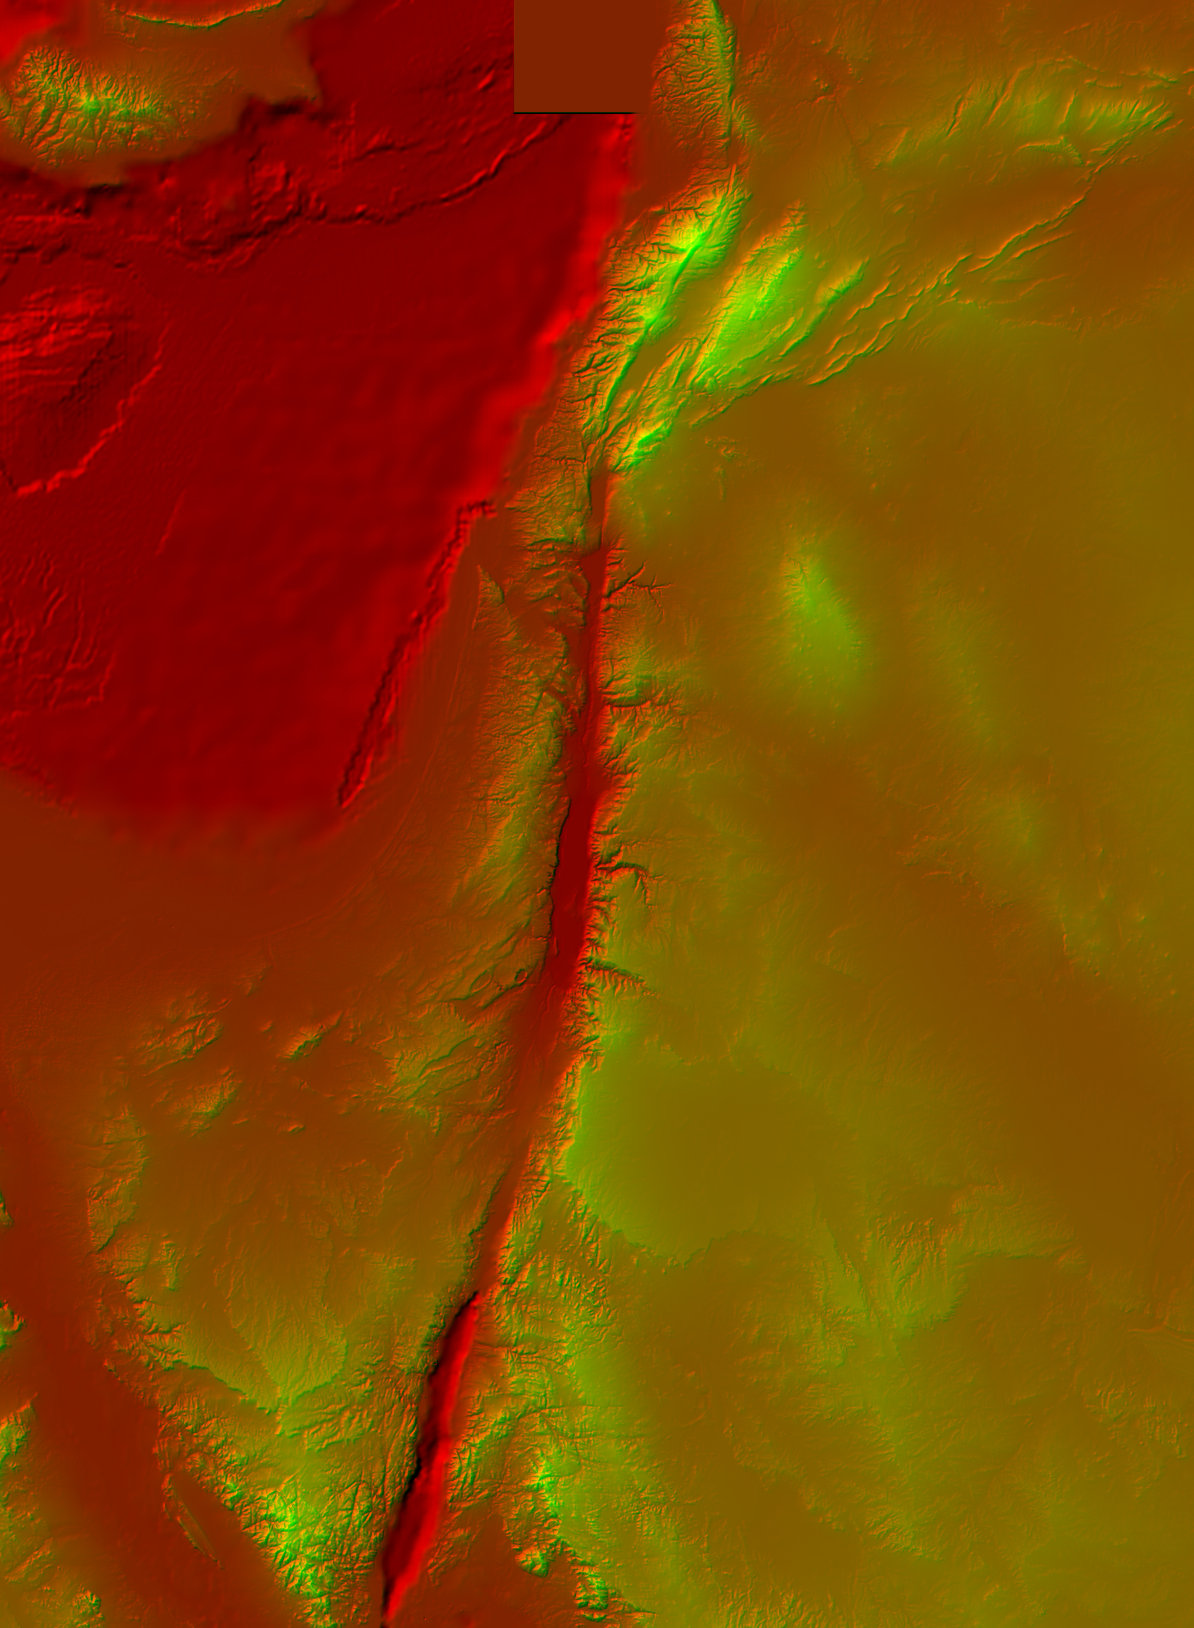
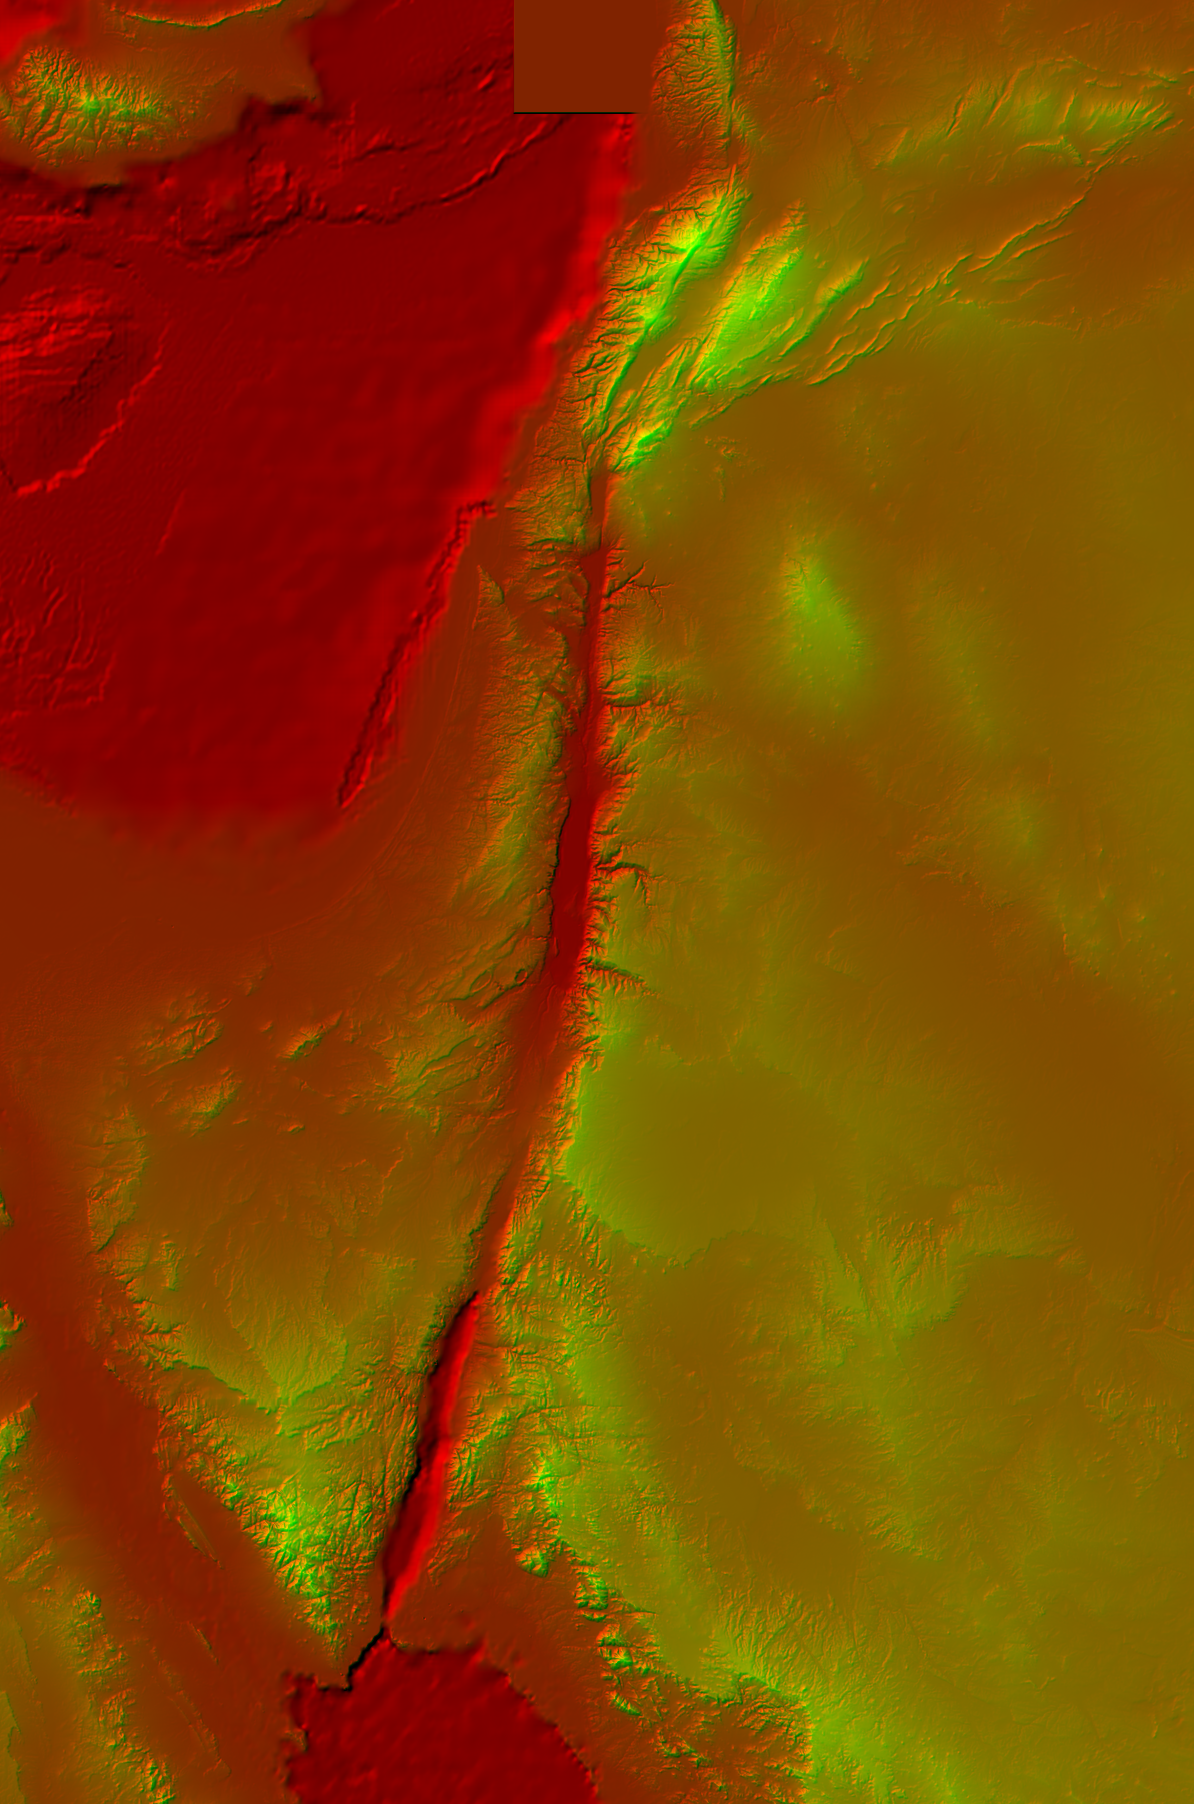
Credit Haqor's own place sites, and shade Midian
A place Haqor sites itself, in place of OpenBible.info, now says so on its
page, and the About view and README say where Haqor departs from
OpenBible.info: the exodus by the Nuweiba crossing to Jabal al-Lawz, and the
cities of the plain at Bab edh-Dhra, Numeira, Feifa, Khanazir and es-Safi.

The relief reaches south to 27.2°N, so Midian, al-Bad' and Jabal al-Lawz are
shaded (2.0 MB).

Needs a haqor.db built with haqor-core's data/place_overrides.json.

diff --git a/lib/src/widgets/name_details.dart b/lib/src/widgets/name_details.dart
@@ -375,6 +375,13 @@ class _NameDetailsPageState extends State<NameDetailsPage> {
             'From STEP Bible\'s TIPNR (Tyndale House Cambridge, CC BY 4.0)',
             if (info.locations.any((l) => l.confidence >= 0))
               'Locations from OpenBible.info (CC BY 4.0)',
+            // Haqor's own identifications carry a label but no confidence;
+            // TIPNR's positions carry neither.
+            if (info.locations.any(
+              (l) => l.confidence < 0 && l.label.isNotEmpty,
+            ))
+              "Location as Haqor identifies it, in place of OpenBible.info's "
+                  '(see About)',
           ].join('. '),
           style: theme.textTheme.bodySmall?.copyWith(
             color: scheme.onSurfaceVariant,

diff --git a/lib/src/app_info.dart b/lib/src/app_info.dart
@@ -147,7 +147,10 @@ const dataSourceCredits = <DataSourceCredit>[
     title: 'OpenBible.info Bible Geocoding',
     description:
         'Where each place named in the Bible may have been, with how '
-        'confident scholarship is in each identification.',
+        'confident scholarship is in each identification. Haqor places the '
+        'exodus and the cities of the plain by its own reading instead: the '
+        'sea crossed from the Nuweiba beach into Midian, Mount Sinai at Jabal '
+        'al-Lawz, and Sodom and Gomorrah at Bab edh-Dhra and Numeira.',
     licence: 'CC BY 4.0',
     url: 'https://github.com/openbibleinfo/Bible-Geocoding-Data',
   ),

diff --git a/tool/build_relief.dart b/tool/build_relief.dart
@@ -17,9 +17,9 @@ import 'dart:math' as math;
 
 import 'package:image/image.dart' as img;
 
-/// [west, south, east, north] in degrees: Israel, Lebanon and Transjordan, with
-/// a margin of desert and sea for the relief to fade out over.
-const box = [32.4, 28.0, 38.8, 35.4];
+/// [west, south, east, north] in degrees: Israel, Lebanon, Transjordan, Sinai
+/// and Midian, with a margin of desert and sea for the relief to fade out over.
+const box = [32.4, 27.2, 38.8, 35.4];
 
 /// Pixels per degree of latitude; longitude has fewer, by the cosine of the
 /// maps' reference latitude.

diff --git a/README.md b/README.md
@@ -323,6 +323,13 @@ licensed CC BY 4.0, over coastlines, lakes and rivers from
 and valleys shaded from NASA's Shuttle Radar Topography Mission elevations
 (public domain), by way of the
 [Terrain Tiles](https://registry.opendata.aws/terrain-tiles/) open dataset.
+Haqor changes OpenBible.info's data for the exodus and the cities of the
+plain, in place of its identifications: it places the crossing of the sea from
+the Nuweiba beach into Midian and Mount Sinai at Jabal al-Lawz (after Ron Wyatt
+and Lennart Möller), and Sodom, Gomorrah, Admah, Zeboiim and Zoar at Bab
+edh-Dhra, Numeira, Feifa, Khanazir and es-Safi, with Lot's cave above es-Safi
+(after Joel Kramer). haqor-core's `data/place_overrides.json` lists the
+changes.
 
 **Thematic cross references** — *The Treasury of Scripture Knowledge*
 (Samuel Bagster & Sons, 1830s; commonly credited to R. A. Torrey), from the
